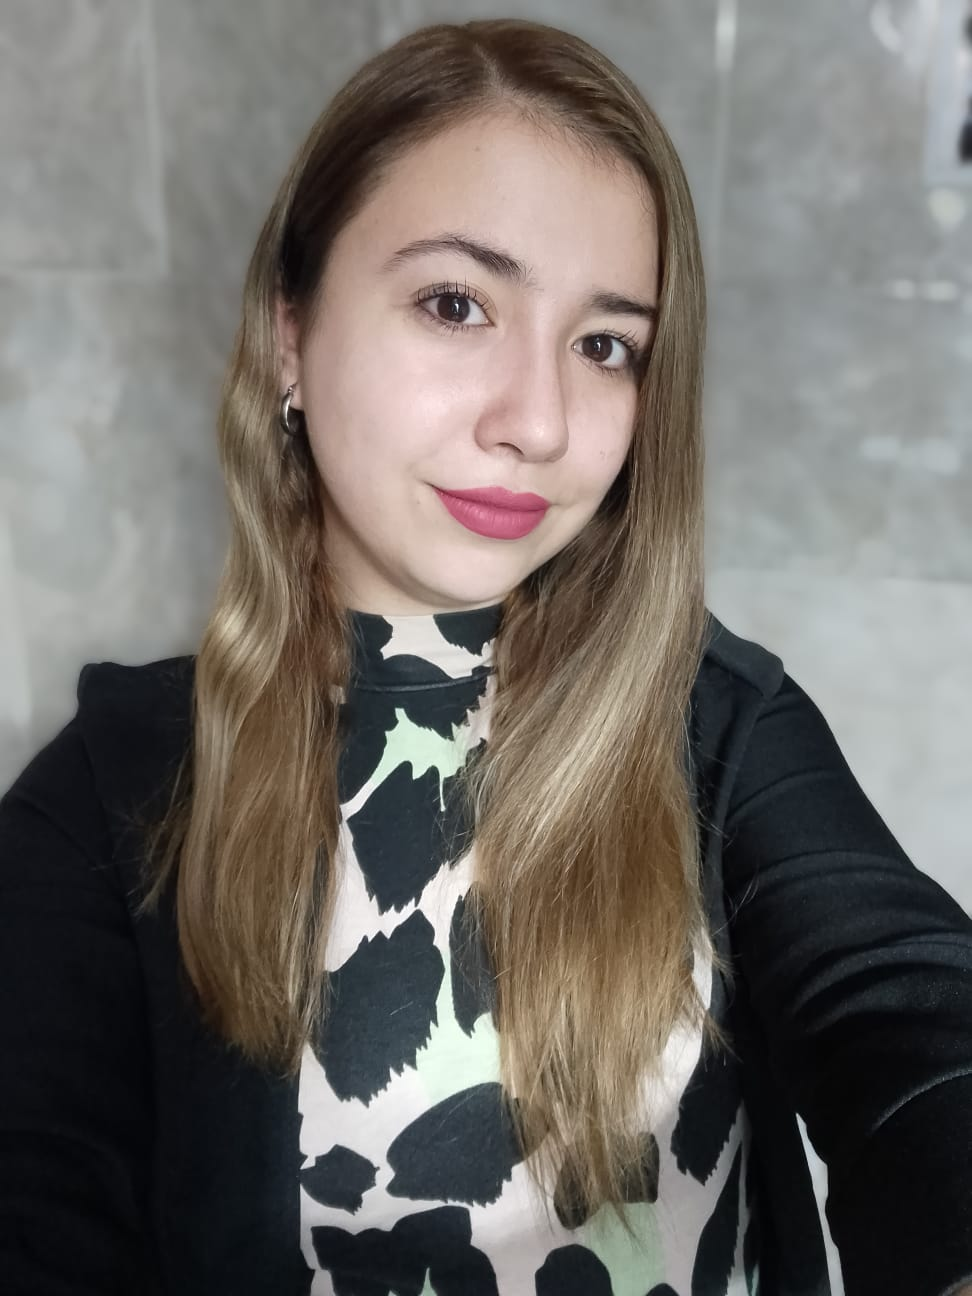
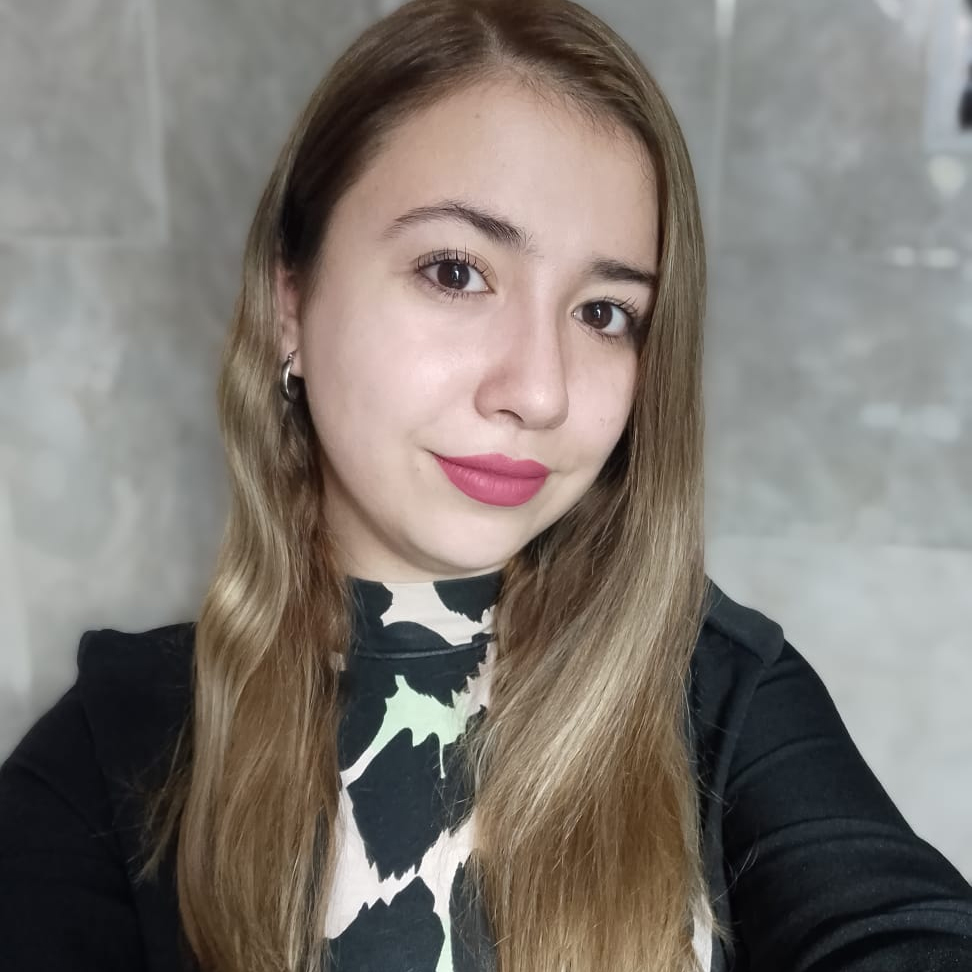
foto perfil

diff --git a/src/components/Bienvenida.vue b/src/components/Bienvenida.vue
@@ -7,7 +7,7 @@
       <v-card-text>
         <v-row align="center">
           <v-col cols="12" sm="3">
-            <v-avatar size="200px">
+            <v-avatar>
               <v-img src="../assets/perfil.jpeg" cover></v-img>
             </v-avatar>
           </v-col>
@@ -52,6 +52,8 @@
 
 .v-avatar {
   border: 5px solid #ff00bf;
+  width: 100%;
+  height: 100%;
 }
 
 .titulo {
